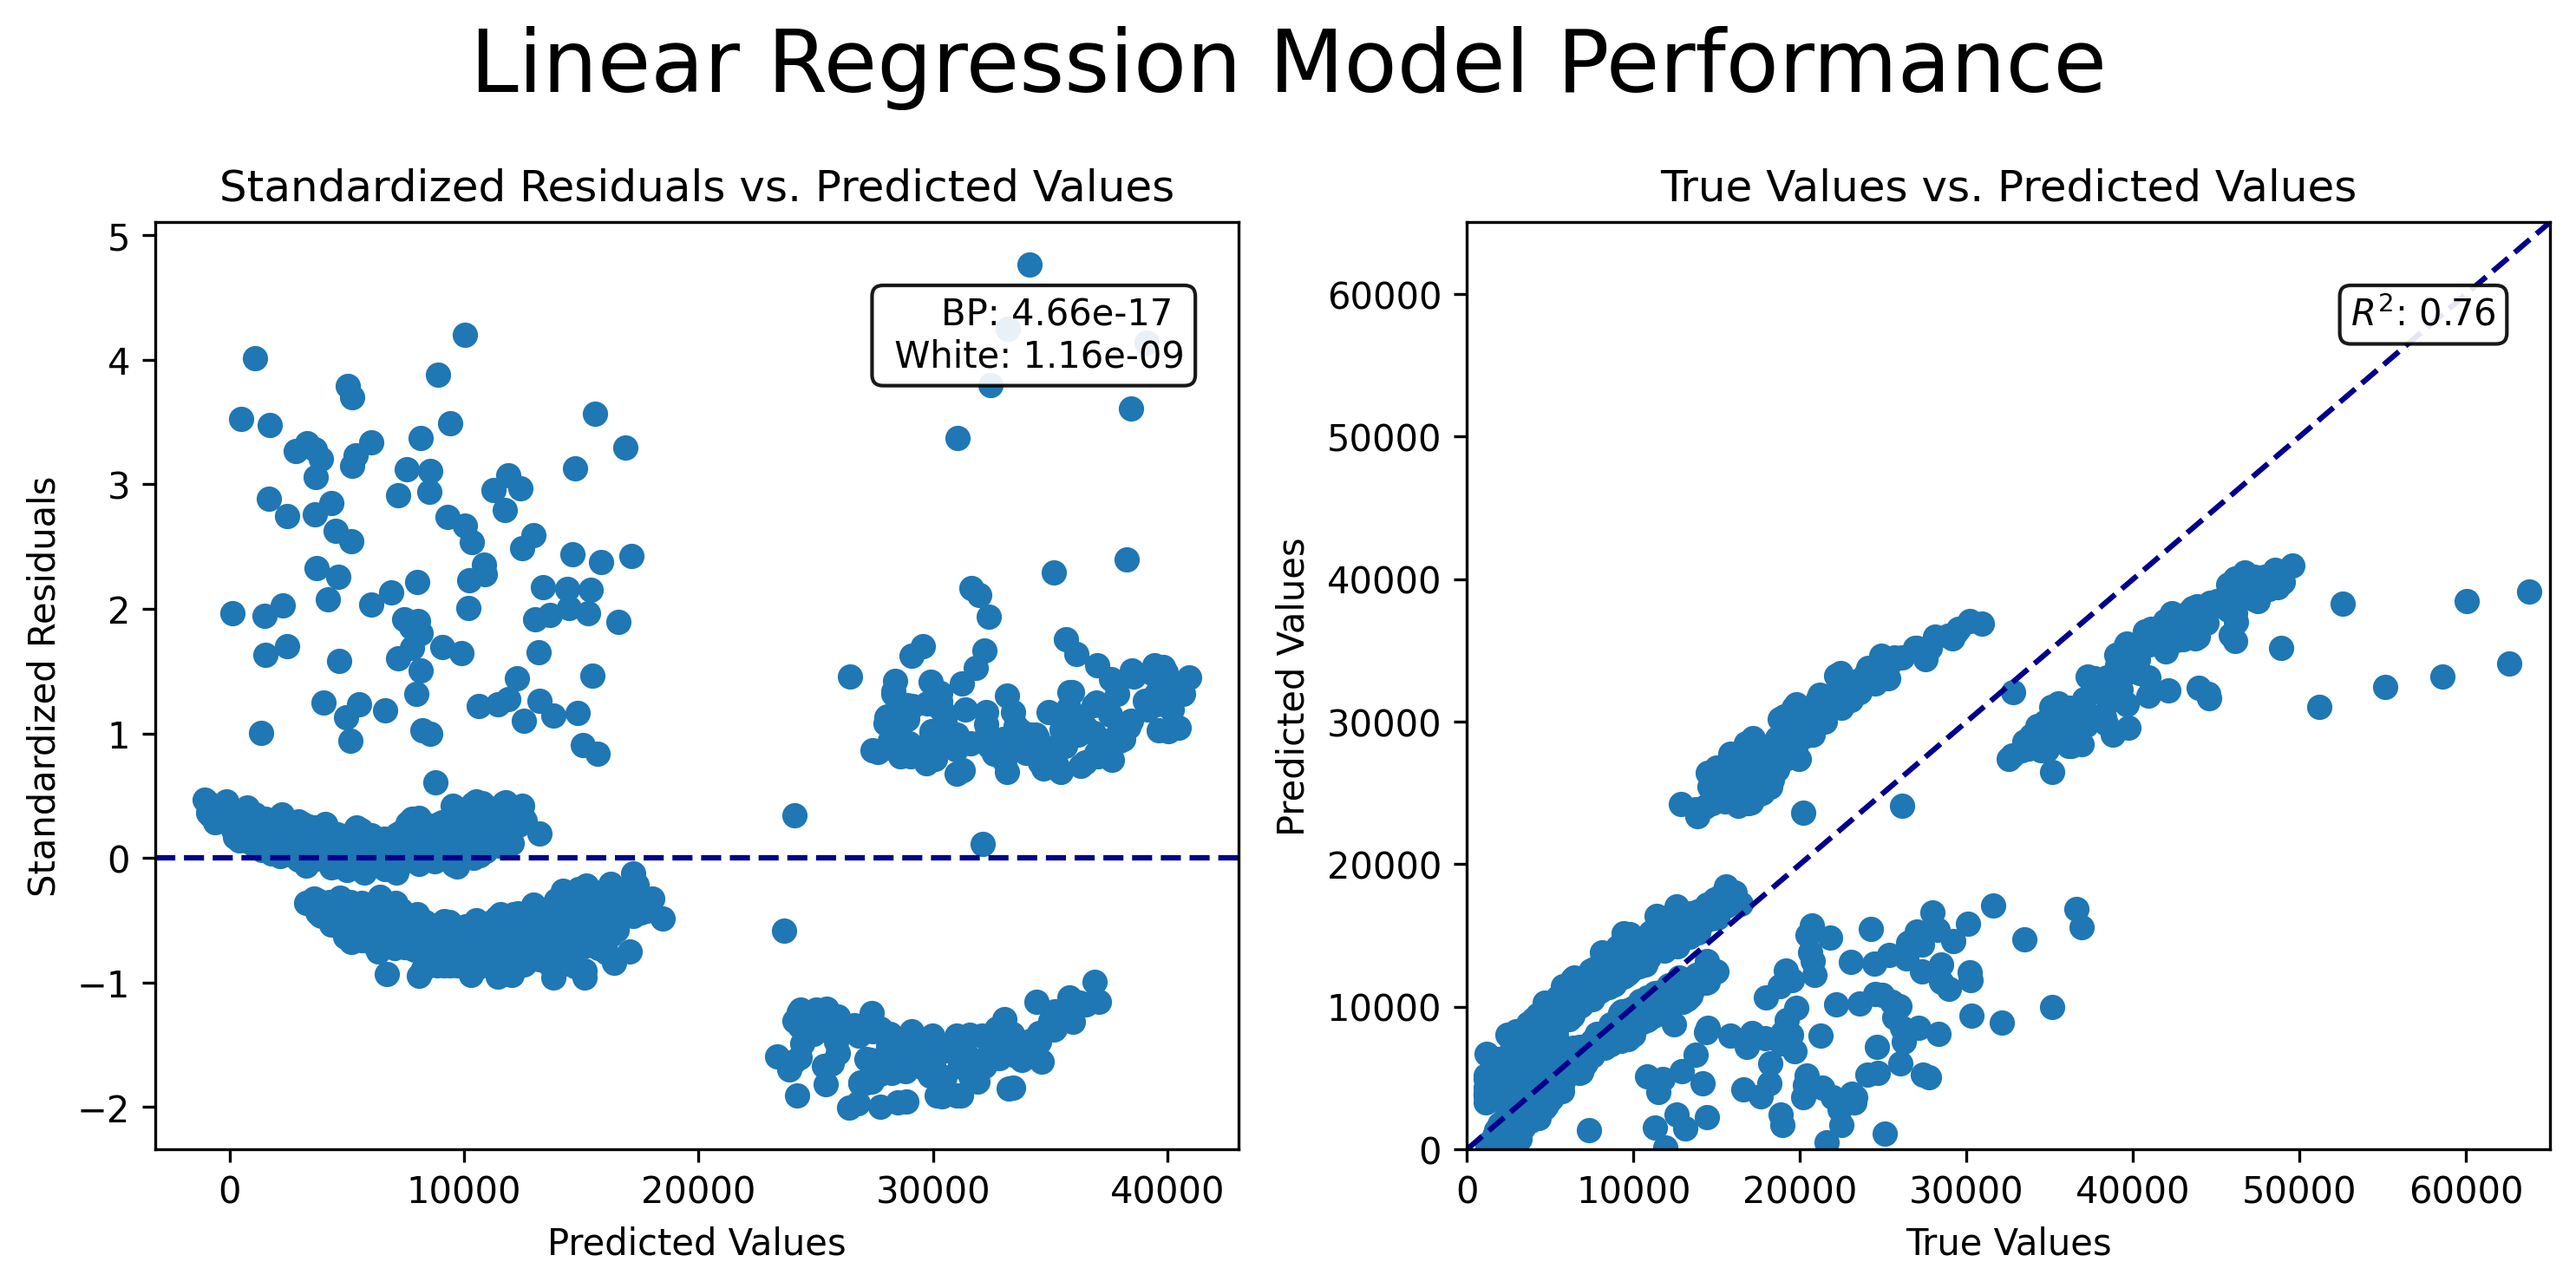
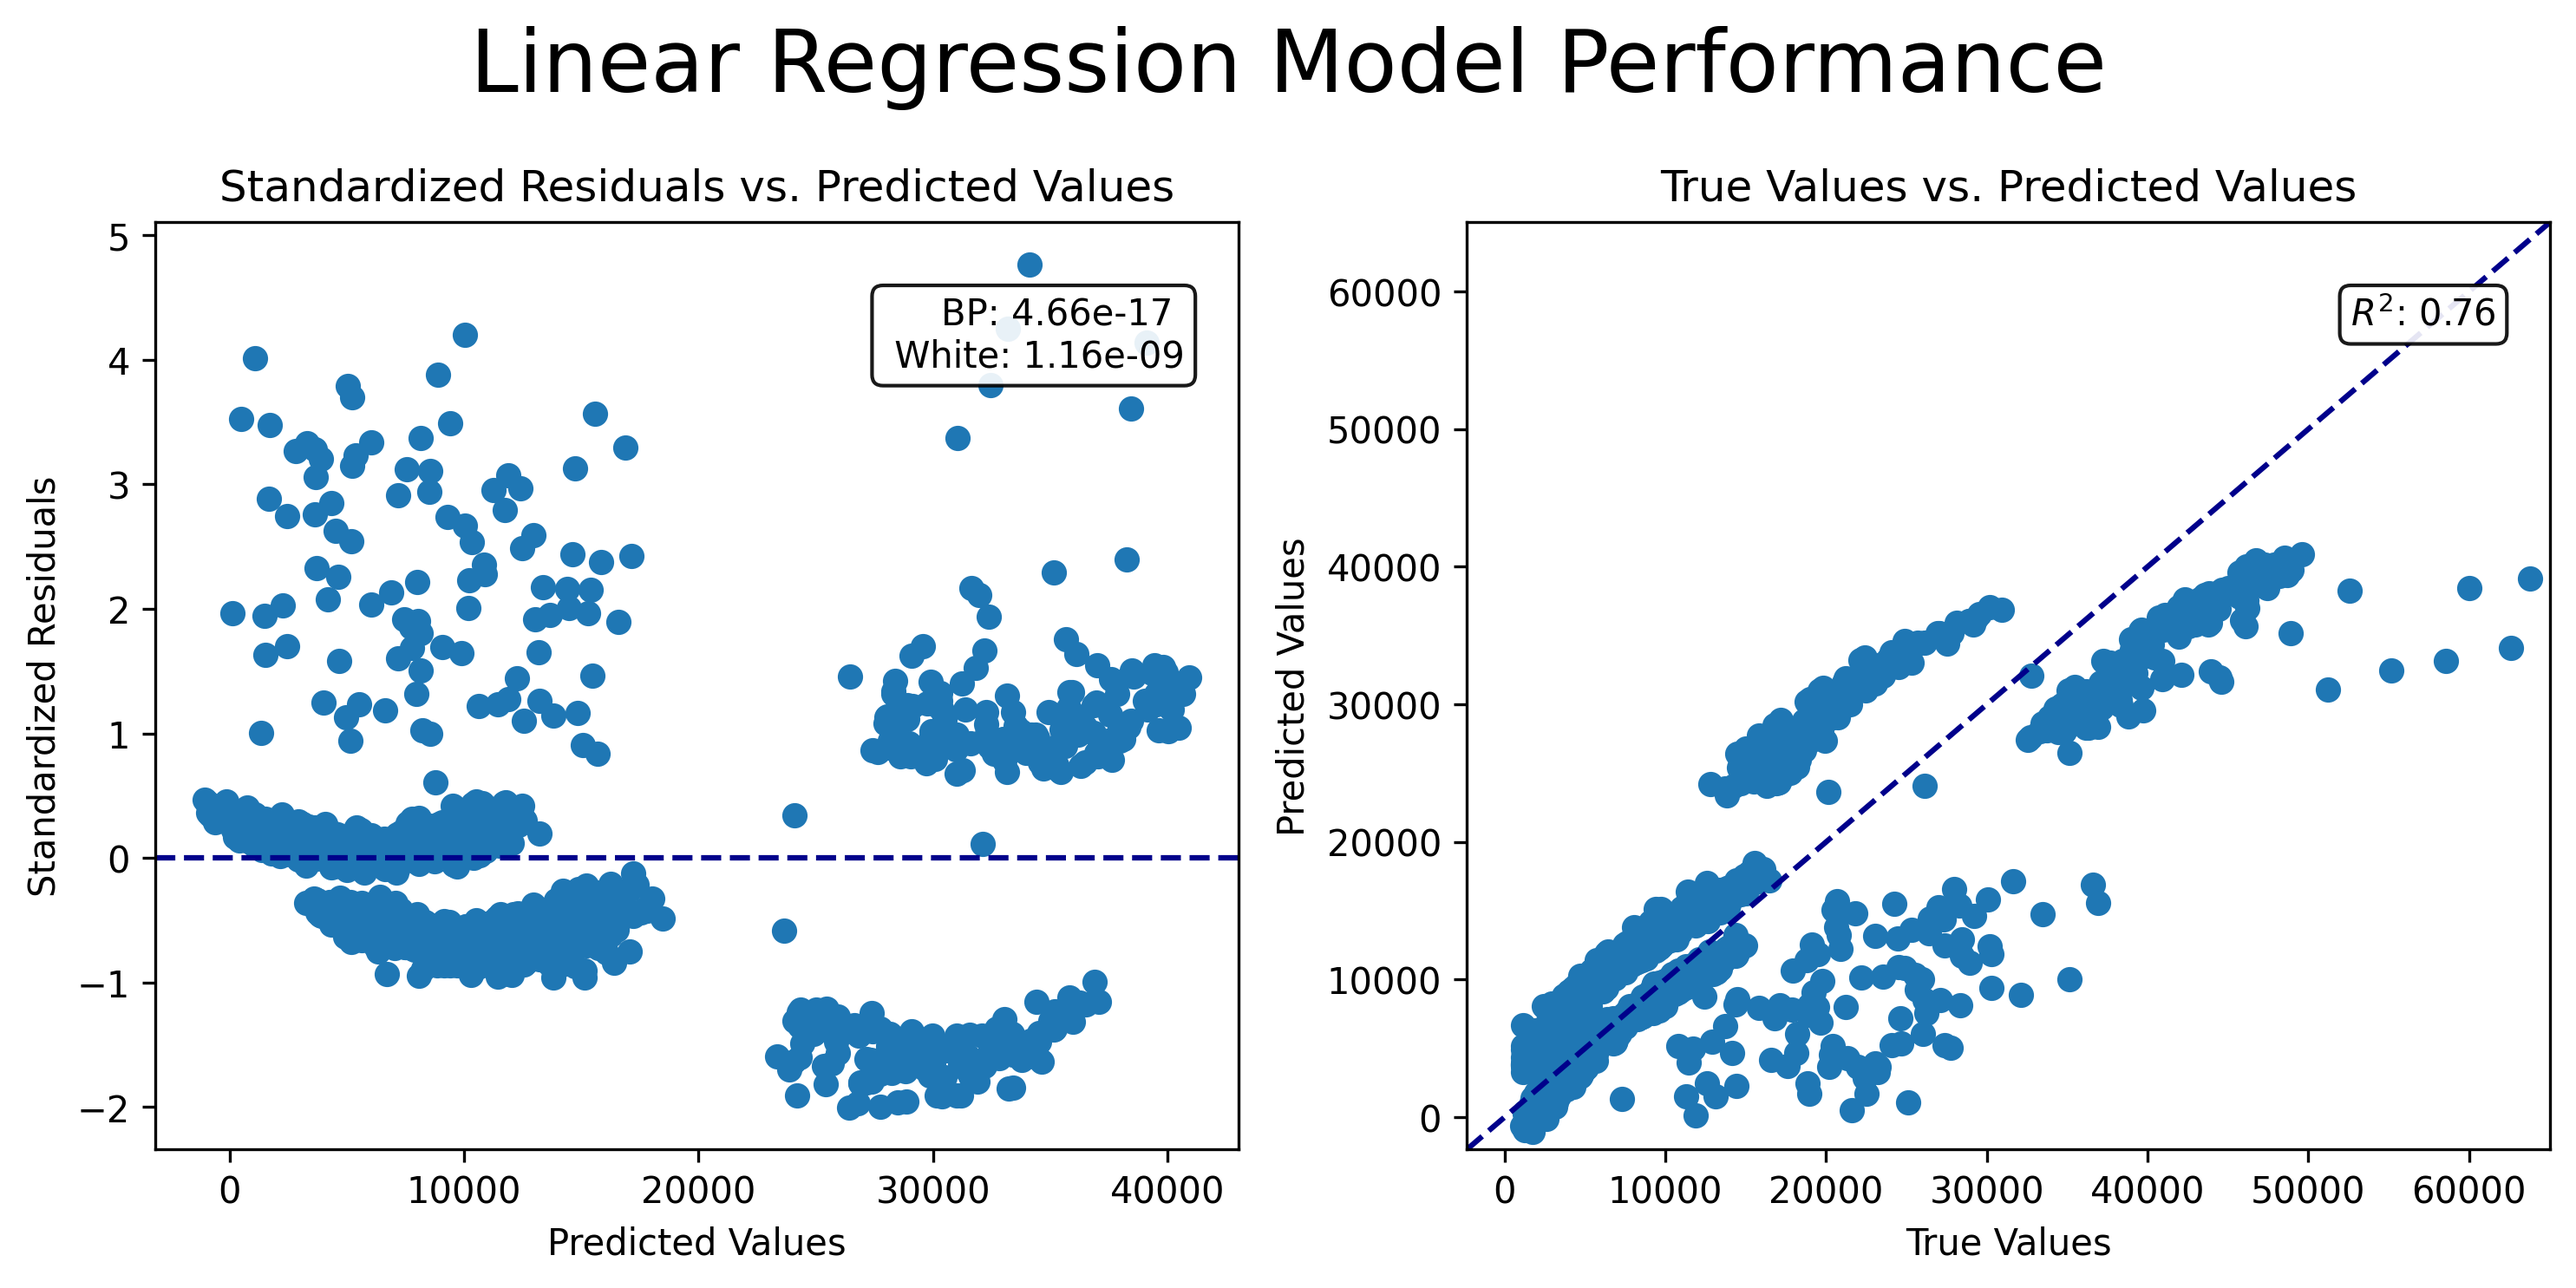
completed sm_lr_model_results_subgrouped()

diff --git a/cost_modeling.py b/cost_modeling.py
@@ -370,8 +370,10 @@ def sm_lr_model_results(lr_model, y, y_pred, combine_plots=False, save_img=False
         ax2.scatter(y, y_pred)
         
     largest_num = max(max(y), max(y_pred))
-    ax2.set_xlim([0, largest_num + (0.02*largest_num)])
-    ax2.set_ylim([0, largest_num + (0.02*largest_num)])
+    smallest_num = min(min(y), min(y_pred))
+    plot_limits = [smallest_num - (0.02*largest_num), largest_num + (0.02*largest_num)]
+    ax2.set_xlim(plot_limits)
+    ax2.set_ylim(plot_limits)
     ax2.plot([0, 1], [0, 1], color='darkblue', linestyle='--', transform=ax2.transAxes)
     ax2.set_title('True Values vs. Predicted Values')
     ax2.set_ylabel('Predicted Values')
@@ -389,14 +391,13 @@ def sm_lr_model_results(lr_model, y, y_pred, combine_plots=False, save_img=False
         plt.show()
     
     het_metrics = dict(zip(['BP', 'White'], [bp_test_results, white_test_results]))
-    
     return het_metrics
 
-# Subgroup plots and quantify heteroscedasticity
+# Subgroup plots by smoking and obesity
 # Parameter lr_model must be a statsmodels linear regression model
 # Parameter plot_title will be added below the actual title in parentheses
 # Parameter filename_unique to be added to the end of the filename if saved
-def sm_lr_model_results_comb_plots_subgrouped(lr_model, orig_dataset, y, y_pred, plot_title, combine_plots=False, save_img=False, filename_unique=None):
+def sm_lr_model_results_subgrouped(lr_model, orig_dataset, y, y_pred, plot_title, save_img=False, filename_unique=None):
     # Organize relevant data
     standardized_residuals = pd.DataFrame(lr_model.get_influence().resid_studentized_internal, columns=['stand_resid'])
     y_pred_series = pd.Series(y_pred, name='y_pred')
@@ -422,49 +423,54 @@ def sm_lr_model_results_comb_plots_subgrouped(lr_model, orig_dataset, y, y_pred,
     # Format text box with relevant metric of each plot
     box_style = {'facecolor':'white', 'boxstyle':'round', 'alpha':0.9}
     
-    # True Values vs. Predicted Values subgrouped by smoking and obesity
-    fig = plt.scatter(smoker_obese_data['y'], smoker_obese_data['y_pred'], alpha=0.5, label='obese smokers')
-    plt.scatter(smoker_nonobese_data['y'], smoker_nonobese_data['y_pred'], alpha=0.5, label='nonobese smokers')
-    plt.scatter(nonsmoker_obese_data['y'], nonsmoker_obese_data['y_pred'], alpha=0.5, label='obese nonsmokers')
-    plt.scatter(nonsmoker_nonobese_data['y'], nonsmoker_nonobese_data['y_pred'], alpha=0.5, label='nonobese nonsmokers')
+    # Create figure, gridspec, list of axes/subplots mapped to gridspec location
+    fig, gs, ax_array_flat = initialize_fig_gs_ax(num_rows=1, num_cols=2, figsize=(12, 5))
+        
+    # =============================
+    # Plot standardized residuals vs. predicted values
+    # =============================
+    ax1 = ax_array_flat[0]
+    ax1.scatter(smoker_obese_data['y_pred'], smoker_obese_data['stand_resid'], alpha=0.5, label='obese smokers')
+    ax1.scatter(smoker_nonobese_data['y_pred'], smoker_nonobese_data['stand_resid'], alpha=0.5, label='nonobese smokers')
+    ax1.scatter(nonsmoker_obese_data['y_pred'], nonsmoker_obese_data['stand_resid'], alpha=0.5, label='obese nonsmokers')
+    ax1.scatter(nonsmoker_nonobese_data['y_pred'], nonsmoker_nonobese_data['stand_resid'], alpha=0.5, label='nonobese nonsmokers')
+    ax1.axhline(y=0, color='red', linestyle='--')
+    ax1.set_ylabel('Standardized Residuals')
+    ax1.set_xlabel('Predicted Values')
+    ax1.set_title('Standardized Residuals vs. Predicted Values')
+    textbox_text = f'BP: {bp_lm_p_value} \n White: {white_lm_p_value}' 
+    ax1.text(0.95, 0.92, textbox_text, bbox=box_style, transform=ax1.transAxes, verticalalignment='top', horizontalalignment='right')  
+    
+    # =============================
+    # True Values vs. Predicted Values 
+    # =============================
+    ax2 = ax_array_flat[1]
+    ax2.scatter(smoker_obese_data['y'], smoker_obese_data['y_pred'], alpha=0.5, label='obese smokers')
+    ax2.scatter(smoker_nonobese_data['y'], smoker_nonobese_data['y_pred'], alpha=0.5, label='nonobese smokers')
+    ax2.scatter(nonsmoker_obese_data['y'], nonsmoker_obese_data['y_pred'], alpha=0.5, label='obese nonsmokers')
+    ax2.scatter(nonsmoker_nonobese_data['y'], nonsmoker_nonobese_data['y_pred'], alpha=0.5, label='nonobese nonsmokers')
     largest_num = max(max(relevant_data['y']), max(relevant_data['y_pred']))
     smallest_num = min(min(relevant_data['y']), min(relevant_data['y_pred']))
-    plt.plot([smallest_num, largest_num], [smallest_num, largest_num], color='darkblue', linestyle='--')
-    plt.title('True Values vs. Predicted Values\n(' + plot_title + ')')
-    plt.ylabel('Predicted Values')
-    plt.xlabel('True Values')
-    plt.legend(bbox_to_anchor=(1.02, 1), loc='upper left', borderaxespad=0, title='Subgroup')
-    
-    ax = fig.axes
+    ax2.plot([smallest_num, largest_num], [smallest_num, largest_num], color='darkblue', linestyle='--')
+    ax2.set_title('True Values vs. Predicted Values')
+    ax2.set_ylabel('Predicted Values')
+    ax2.set_xlabel('True Values')
+    ax2.legend(bbox_to_anchor=(1.02, 1), loc='upper left', borderaxespad=0, title='Subgroup')
     textbox_text = r'$R^2$: %0.2f' %lr_model.rsquared
-    plt.text(0.95, 0.92, textbox_text, bbox=box_style, transform=ax.transAxes, 
-             verticalalignment='top', horizontalalignment='right') 
-
-    plt.show()
+    ax2.text(0.95, 0.92, textbox_text, bbox=box_style, transform=ax2.transAxes, verticalalignment='top', horizontalalignment='right') 
     
-    # Plot standardized residuals vs. predicted values subgrouped by smoking and obesity
-    fig = plt.scatter(smoker_obese_data['y_pred'], smoker_obese_data['stand_resid'], alpha=0.5, label='obese smokers')
-    plt.scatter(smoker_nonobese_data['y_pred'], smoker_nonobese_data['stand_resid'], alpha=0.5, label='nonobese smokers')
-    plt.scatter(nonsmoker_obese_data['y_pred'], nonsmoker_obese_data['stand_resid'], alpha=0.5, label='obese nonsmokers')
-    plt.scatter(nonsmoker_nonobese_data['y_pred'], nonsmoker_nonobese_data['stand_resid'], alpha=0.5, label='nonobese nonsmokers')
-    plt.axhline(y=0, color='red', linestyle='--')
-    plt.ylabel('Standardized Residuals')
-    plt.xlabel('Predicted Values')
-    plt.title('Standardized Residuals vs. Predicted Values\n(' + plot_title + ')')
-    plt.legend(bbox_to_anchor=(1.02, 1), loc='upper left', borderaxespad=0, title='Subgroup')
-    
-    ax = fig.axes
-    textbox_text = f'BP: {bp_lm_p_value} \n White: {white_lm_p_value}' 
-    plt.text(0.95, 0.92, textbox_text, bbox=box_style, transform=ax.transAxes, 
-             verticalalignment='top', horizontalalignment='right')  
-    
+    # Format and save figure
+    fig.suptitle('Linear Regression Model Performance (' + plot_title + ')', fontsize=24)
+    fig.tight_layout(h_pad=2) # Increase spacing between plots to minimize text overlap
+    if save_img:
+        save_filename = 'sm_lr_results_' + filename_unique
+        save_image(output_dir, save_filename, bbox_inches='tight')
     plt.show()
 
     return white_test_results, bp_test_results
 
 
-
-white_test_results_1, bp_test_results_1 = sm_lr_model_results_comb_plots_subgrouped(sm_lin_reg, dataset, y, sm_y_pred, title_1)
+white_test_results_1, bp_test_results_1 = sm_lr_model_results_subgrouped(sm_lin_reg, dataset, y, sm_y_pred, 'Original', save_img=False, filename_unique='orig_subgrouped')
 
 type(y)
 
@@ -521,7 +527,7 @@ sm_y_pred = sm_lin_reg.predict(sm_processed_X)
 sm_y_pred.name = 'y_pred'
 
 # Plot model performance
-het_metrics = sm_lr_model_results(sm_lin_reg, y, sm_y_pred, combine_plots=True, save_img=False, filename_unique='original')
+het_metrics = sm_lr_model_results(sm_lin_reg, y, sm_y_pred, combine_plots=True, save_img=True, filename_unique='original')
 
 
 title_1 = 'Original'   
